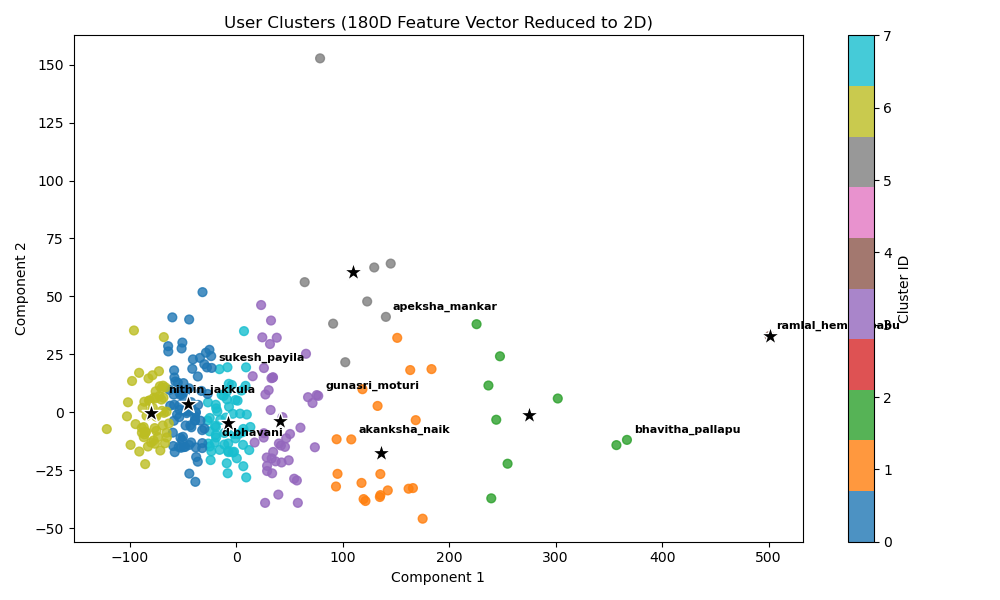
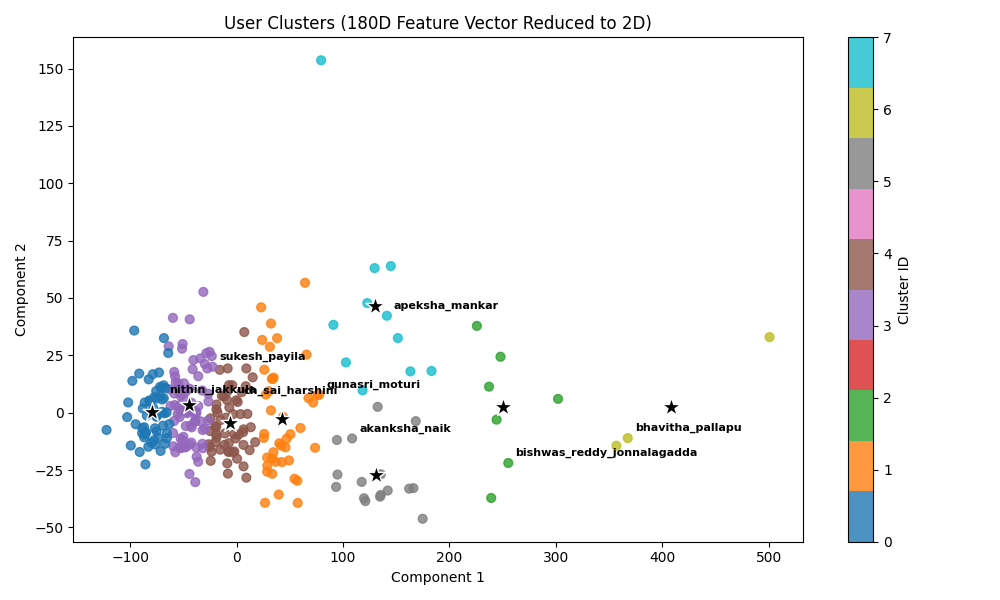
updated the feature vector calculation

diff --git a/clustering/kmeans_clustering.py b/clustering/kmeans_clustering.py
@@ -1,4 +1,6 @@
 import os
+import sys
+sys.path.append(os.path.abspath(os.path.join(os.path.dirname(__file__), '..')))
 import json
 from sklearn.cluster import KMeans
 from clustering.generate_features import generate_user_feature_vectors
@@ -10,7 +12,7 @@ OUTPUT_FILE = os.path.join(os.path.dirname(__file__), "clusters.json")
 # --- Run Clustering on 180D Vectors ---
 def run_kmeans_clustering():
     full_feature_map = generate_user_feature_vectors()
-
+    
     # Extract base usernames (before ::platform)
     user_set = set()
     for key in full_feature_map:

diff --git a/clustering/generate_features.py b/clustering/generate_features.py
@@ -70,7 +70,7 @@ def generate_user_feature_vectors():
             diff_dist = source_data.get("difficulty_summary", {})
 
             acc = safe_ratio(correct, total)
-            boost = math.log(1 + unique) / math.log(101)
+            boost = math.log(1 + unique) ** 2
             accuracy_score = acc * boost
 
             tag_vector = [tag_dist.get(tag, 0) for tag in TAG_LIST]

diff --git a/clustering/knn_within_cluster.py b/clustering/knn_within_cluster.py
@@ -100,3 +100,5 @@ def knn_within_cluster(username, k=3):
 
     similarities.sort(key=lambda x: x[1], reverse=True)
     return similarities[:k]
+
+print(knn_within_cluster("kurva_ravi_shanker"))
